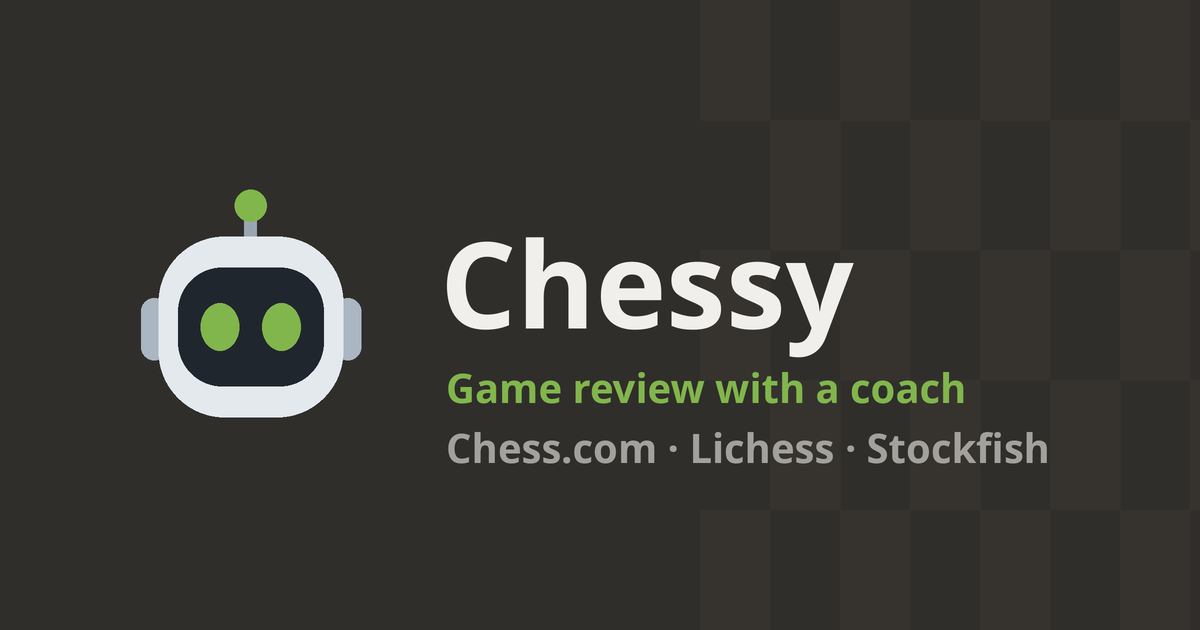
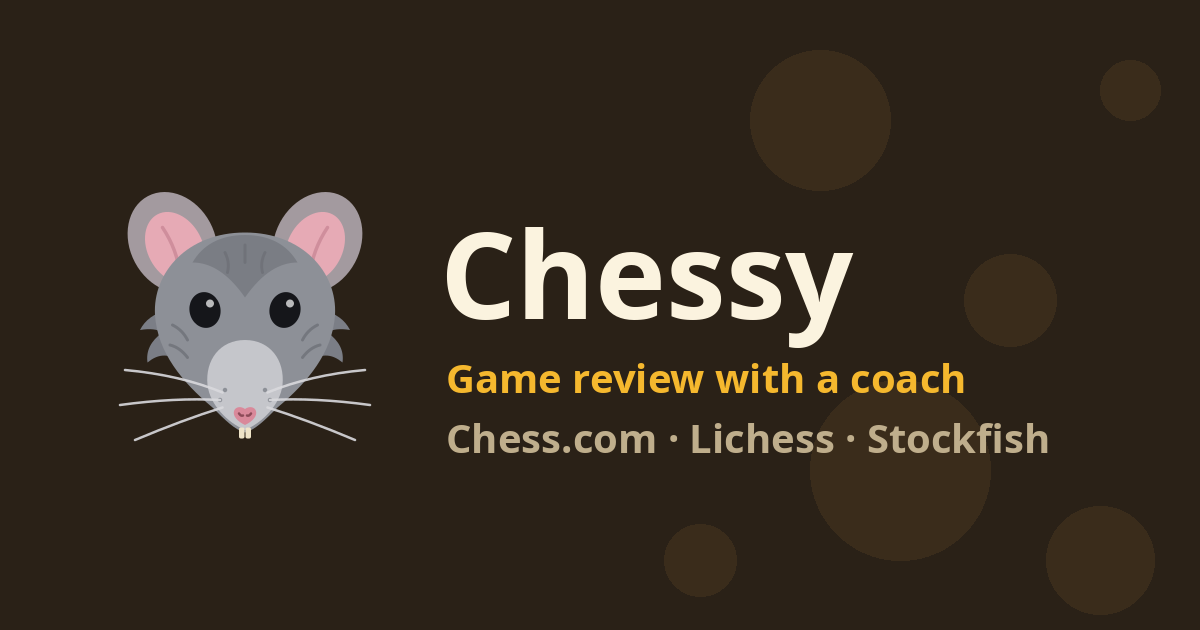
Cheese theme and a gray mouse coach
Warm brown/cheddar palette with a Cheese board theme as the default, and a
gray, more realistic animated mouse head replacing the robot (whiskers and
nose move while it talks). New favicon, app icons and link preview.
Move badges are no longer clipped on edge squares.

Changed region(s): [[0.37, 0.3619, 0.8942, 0.754], [0.0925, 0.3016, 0.3083, 0.6937]]

diff --git a/style.css b/style.css
@@ -1,6 +1,6 @@
 :root{
-  --bg:#302e2b; --panel:#262522; --card:#2f2d2a; --card2:#3a3835; --text:#f0efec; --muted:#a3a19c;
-  --green:#81b64c; --btn:#4e8a28; --greenD:#3c6e1d; --light:#eeeed2; --dark:#769656;
+  --bg:#2a2117; --panel:#211a12; --card:#2e2419; --card2:#3b2f21; --text:#fbf3df; --muted:#bfae8c;
+  --green:#f5b82e; --btn:#f5b82e; --greenD:#c48a12; --ink:#2a1d05; --light:#eeeed2; --dark:#769656;
   --board:min(640px, calc(100vw - 72px));
 }
 *{box-sizing:border-box}
@@ -8,16 +8,16 @@ body{margin:0;background:var(--bg);color:var(--text);font-family:system-ui,-appl
 button,select,input{font:inherit}
 .hidden{display:none!important}
 
-.top{display:flex;gap:16px;align-items:center;justify-content:space-between;padding:10px 20px;background:#21201d;flex-wrap:wrap}
+.top{display:flex;gap:16px;align-items:center;justify-content:space-between;padding:10px 20px;background:#1b150e;flex-wrap:wrap}
 .brand{font-size:22px;font-weight:800;display:flex;align-items:center;gap:10px}
 .logo{display:block;border-radius:7px}
 .search{display:flex;gap:8px;flex-wrap:wrap}
-.search input,.search select{background:var(--card);color:var(--text);border:1px solid #4a4743;border-radius:6px;padding:9px 12px}
+.search input,.search select{background:var(--card);color:var(--text);border:1px solid #5a4a35;border-radius:6px;padding:9px 12px}
 .search input{width:200px}
 button{background:var(--card2);color:var(--text);border:0;border-radius:6px;padding:9px 14px;cursor:pointer}
 button:hover:not(:disabled){filter:brightness(1.18)}
 button:disabled{opacity:.45;cursor:default}
-button.primary{background:var(--green);color:#10200a;font-weight:700}
+button.primary{background:var(--green);color:var(--ink);font-weight:700}
 
 /* ===== layout principal ===== */
 #app{display:flex;gap:20px;padding:20px;justify-content:center;align-items:flex-start}
@@ -30,20 +30,23 @@ button.primary{background:var(--green);color:#10200a;font-weight:700}
 .player .pav{width:40px;height:40px;border-radius:4px;background:#5a5855 center/cover no-repeat;flex:0 0 auto}
 .player .pname{font-weight:700;font-size:15px}
 .player .prate{color:var(--muted);font-weight:400;margin-left:5px;font-size:13px}
-.player .clock{margin-left:auto;min-width:104px;text-align:right;background:#21201d;border-radius:4px;padding:6px 12px;font:700 20px/1 ui-monospace,Menlo,Consolas,monospace;color:#8d8b87}
+.player .clock{margin-left:auto;min-width:104px;text-align:right;background:#1b150e;border-radius:4px;padding:6px 12px;font:700 20px/1 ui-monospace,Menlo,Consolas,monospace;color:#8d8b87}
 .player .clock.active{background:#fff;color:#262522}
 .player .clock.empty{visibility:hidden}
 
 /* ===== tabuleiro ===== */
 .boardWrap{display:flex;gap:8px}
-.evalBar{position:relative;width:26px;background:#403d39;border-radius:3px;overflow:hidden;flex:0 0 auto}
+.evalBar{position:relative;width:26px;background:#3b2f21;border-radius:3px;overflow:hidden;flex:0 0 auto}
 .evalFill{position:absolute;bottom:0;left:0;right:0;background:#f5f5f5;height:50%;transition:height .4s}
 .evalBar.flipped .evalFill{bottom:auto;top:0}
 .evalNum{position:absolute;left:0;right:0;font-size:10px;text-align:center;font-weight:700;color:#8d8b87;z-index:1}
-.board{position:relative;width:var(--board);height:var(--board);display:grid;grid-template-columns:repeat(8,1fr);grid-template-rows:repeat(8,1fr);border-radius:3px;overflow:hidden;user-select:none}
+.board{position:relative;width:var(--board);height:var(--board);display:grid;grid-template-columns:repeat(8,1fr);grid-template-rows:repeat(8,1fr);user-select:none}
+/* sem overflow:hidden, para o ícone do lance poder passar da borda; os cantos ficam arredondados nas próprias casas */
+.sq:nth-child(1){border-top-left-radius:3px}.sq:nth-child(8){border-top-right-radius:3px}
+.sq:nth-child(57){border-bottom-left-radius:3px}.sq:nth-child(64){border-bottom-right-radius:3px}
 .sq{position:relative}
 .sq.l{background:var(--light)} .sq.d{background:var(--dark)}
-.sq.hl::before{content:"";position:absolute;inset:0;background:rgba(255,235,60,.5)}
+.sq.hl::before{content:"";position:absolute;inset:0;background:rgba(255,110,20,.38)}
 .sq.hlBest::before{content:"";position:absolute;inset:0;background:rgba(129,182,76,.6)}
 .sq img{position:absolute;inset:0;width:100%;height:100%;z-index:2;pointer-events:none}
 .sq .coord{position:absolute;font-size:clamp(9px,1.5vw,13px);font-weight:700;z-index:1}
@@ -54,7 +57,7 @@ button.primary{background:var(--green);color:#10200a;font-weight:700}
 .arrows{position:absolute;inset:0;width:100%;height:100%;z-index:3;pointer-events:none}
 
 /* ===== painel ===== */
-.panelHead{flex:0 0 52px;display:flex;align-items:center;gap:4px;padding:0 10px;border-bottom:1px solid #1d1c1a}
+.panelHead{flex:0 0 52px;display:flex;align-items:center;gap:4px;padding:0 10px;border-bottom:1px solid #17110b}
 .panelHead .title{flex:1;display:flex;align-items:center;justify-content:center;gap:8px;font-weight:700;font-size:16px}
 .titleIcon svg{width:22px;height:22px;display:block}
 .iconBtn{background:none;font-size:18px;padding:6px 10px;color:#c3c1bc;min-width:36px}
@@ -62,39 +65,44 @@ button.primary{background:var(--green);color:#10200a;font-weight:700}
 .panel.review #btnBack{visibility:visible}
 
 .coach{flex:0 0 auto;display:flex;gap:10px;align-items:flex-end;padding:14px 14px 10px}
-.avatar{--mood:#81b64c;flex:0 0 76px;width:76px;height:79px}
+.avatar{flex:0 0 76px;width:76px;height:79px}
 .avatar svg{width:100%;height:100%;display:block;overflow:visible}
 .avatar .rbBody{animation:float 3.2s ease-in-out infinite}
 .avatar .rbShadow{transform-box:fill-box;transform-origin:center;animation:shadow 3.2s ease-in-out infinite}
-.avatar .rbEye,.avatar .rbBulb{fill:var(--mood);transition:fill .45s}
 .avatar .rbLook{animation:look 7s ease-in-out infinite}
 .avatar .eyes{transform-box:fill-box;transform-origin:center;animation:blink 4.5s infinite}
-/* sem boca: enquanto fala, os olhos "pulsam" de leve */
-.avatar .rbEye{transform-box:fill-box;transform-origin:center}
-.avatar.talking .rbEye{animation:talk .22s infinite alternate}
+.avatar .msWhiskL,.avatar .msWhiskR,.avatar .msNose{transform-box:fill-box}
+.avatar .msWhiskL{transform-origin:right center}
+.avatar .msWhiskR{transform-origin:left center}
+.avatar .msNose{transform-origin:center}
+.avatar.talking .msWhiskL{animation:whiskL .24s infinite alternate}
+.avatar.talking .msWhiskR{animation:whiskR .24s infinite alternate}
+.avatar.talking .msNose{animation:sniff .24s infinite alternate}
 @keyframes float{50%{transform:translateY(-3px)}}
 @keyframes shadow{50%{transform:scaleX(.85);opacity:.18}}
 @keyframes look{0%,38%,100%{transform:translateX(0)}45%,58%{transform:translateX(3px)}65%,78%{transform:translateX(-3px)}}
 @keyframes blink{0%,94%,100%{transform:scaleY(1)}97%{transform:scaleY(.1)}}
-@keyframes talk{from{transform:scale(1,1)}to{transform:scale(1.06,.8)}}
+@keyframes whiskL{to{transform:rotate(7deg)}}
+@keyframes whiskR{to{transform:rotate(-7deg)}}
+@keyframes sniff{to{transform:translateY(-1.5px) scale(1.12)}}
 @media (prefers-reduced-motion:reduce){.avatar *{animation:none!important}}
 /* altura FIXA: o texto nunca empurra o resto da interface */
-.bubble{position:relative;flex:1;min-width:0;height:96px;background:#fff;color:#262522;border-radius:8px;padding:12px 12px;display:flex;flex-direction:column;gap:6px;overflow:hidden}
-.bubble::before{content:"";position:absolute;left:-7px;bottom:22px;border:7px solid transparent;border-right-color:#fff;border-left:0}
+.bubble{position:relative;flex:1;min-width:0;height:96px;background:#fffaf0;color:#2a2117;border-radius:8px;padding:12px 12px;display:flex;flex-direction:column;gap:6px;overflow:hidden}
+.bubble::before{content:"";position:absolute;left:-7px;bottom:22px;border:7px solid transparent;border-right-color:#fffaf0;border-left:0}
 .bubbleRow{display:flex;align-items:flex-start;gap:8px}
 .moveBadge{display:flex;align-items:center;flex:0 0 auto}
 .moveBadge:empty{display:none}
 .moveBadge svg{width:24px;height:24px;flex:0 0 auto}
 .evalChip{flex:0 0 auto;background:#e9e8e6;border-radius:4px;padding:3px 8px;font-weight:700;font-size:13px}
 .evalChip:empty{display:none}
-.voiceSel{background:var(--card);color:var(--text);border:1px solid #4a4743;border-radius:6px;padding:4px 6px;font-size:12px;max-width:120px}
+.voiceSel{background:var(--card);color:var(--text);border:1px solid #5a4a35;border-radius:6px;padding:4px 6px;font-size:12px;max-width:120px}
 .bubbleText{flex:1;min-width:0;font-size:15px;font-weight:800;line-height:1.35;padding-top:2px}
 .bestLine{font-size:13.5px;color:#5b5955;font-weight:600;padding-left:32px}
 .bestLine:empty{display:none}
 .bubbleText .ghost{visibility:hidden}
 
 .body{flex:1;min-height:0;display:flex;flex-direction:column;gap:10px;padding:4px 14px 14px}
-.graphWrap{flex:0 0 auto;background:#21201d;border-radius:4px;overflow:hidden}
+.graphWrap{flex:0 0 auto;background:#1b150e;border-radius:4px;overflow:hidden}
 .graph{position:relative;height:60px;cursor:pointer}
 .graph svg{position:absolute;inset:0;width:100%;height:100%}
 .graph .dot{position:absolute;width:8px;height:8px;margin:-4px 0 0 -4px;border-radius:50%;pointer-events:none}
@@ -110,34 +118,34 @@ button.primary{background:var(--green);color:#10200a;font-weight:700}
 .accBox{background:#fff;color:#262522;border-radius:4px;padding:5px 0;font-weight:800;width:64px;margin:auto;text-align:center;font-size:16px}
 .cnt{font-weight:800;font-size:15px}
 .ic svg{width:22px;height:22px;display:block;margin:0 auto}
-.rule{border:0;border-top:1px solid #3a3835;margin:2px 0;grid-column:1/-1}
+.rule{border:0;border-top:1px solid #4a3c2a;margin:2px 0;grid-column:1/-1}
 .chev{grid-column:1/-1;background:none;color:var(--muted);padding:2px;font-size:15px}
 .ratingBox{background:#fff;color:#262522;border-radius:4px;padding:5px 0;font-weight:800;width:64px;margin:auto;text-align:center;font-size:16px}
 
-.bigBtn{width:100%;background:var(--btn);color:#fff;font-size:20px;font-weight:800;padding:14px;border-radius:8px;box-shadow:0 4px 0 var(--greenD)}
-.bigBtn:disabled{background:#4a4743;box-shadow:0 4px 0 #3a3835;color:#aaa}
+.bigBtn{width:100%;background:var(--btn);color:var(--ink);font-size:20px;font-weight:800;padding:14px;border-radius:8px;box-shadow:0 4px 0 var(--greenD)}
+.bigBtn:disabled{background:#5a4a35;box-shadow:0 4px 0 #4a3c2a;color:#aaa}
 .foot{flex:0 0 auto}
 
 /* ===== revisão ===== */
-.ghostBtn{background:var(--btn);color:#fff;font-weight:800;font-size:15px;padding:11px;box-shadow:0 3px 0 var(--greenD)}
-.ghostBtn:disabled{background:#3a3835;box-shadow:0 3px 0 #2c2a28;color:#8d8b87}
+.ghostBtn{background:var(--btn);color:var(--ink);font-weight:800;font-size:15px;padding:11px;box-shadow:0 3px 0 var(--greenD)}
+.ghostBtn:disabled{background:#4a3c2a;box-shadow:0 3px 0 #241b11;color:#8d8b87}
 .btnRow{display:flex;gap:8px}
 .btnRow .nextBig{flex:1}
-.btnRow .alt{flex:0 0 130px;background:var(--card2);box-shadow:0 3px 0 #1d1c1a;color:var(--text)}
-.btnRow .alt:disabled{background:#2f2d2a;box-shadow:0 3px 0 #1d1c1a}
+.btnRow .alt{flex:0 0 130px;background:var(--card2);box-shadow:0 3px 0 #17110b;color:var(--text)}
+.btnRow .alt:disabled{background:#2f2d2a;box-shadow:0 3px 0 #17110b}
 .moves{flex:1;min-height:0;overflow:auto;background:var(--card);border-radius:6px;padding:4px 0;font-size:14px}
 .mrow{display:grid;grid-template-columns:38px 1fr 1fr;align-items:center}
 .mrow:nth-child(odd){background:rgba(255,255,255,.025)}
 .mrow .num{color:var(--muted);text-align:center;font-size:12px}
 .mv{display:flex;align-items:center;gap:5px;padding:6px 8px;margin:1px 4px;border-radius:4px;cursor:pointer;font-weight:600;min-height:30px}
 .mv:hover{background:var(--card2)}
-.mv.active{background:#4a4743;color:#fff}
+.mv.active{background:#5a4628;color:#fff}
 .mv svg{width:16px;height:16px;flex:0 0 auto}
 .mv .fig{font-size:17px;line-height:1;color:#d9d7d3}
 .controls{display:grid;grid-template-columns:repeat(5,1fr);gap:6px}
 .controls button{font-size:20px;padding:9px 0;background:var(--card2)}
 
-.status{position:fixed;bottom:16px;left:50%;transform:translateX(-50%);background:#21201d;border:1px solid #4a4743;padding:10px 18px;border-radius:8px;display:none;max-width:90vw;z-index:10}
+.status{position:fixed;bottom:16px;left:50%;transform:translateX(-50%);background:#1b150e;border:1px solid #5a4a35;padding:10px 18px;border-radius:8px;display:none;max-width:90vw;z-index:10}
 .status.show{display:block}
 .status.err{border-color:#ca3431;color:#ffb4b2}
 
@@ -171,19 +179,19 @@ button.primary{background:var(--green);color:#10200a;font-weight:700}
 .promoPiece img{width:100%;height:100%;display:block}
 
 /* ===== personalização ===== */
-.settingsPop{position:absolute;top:52px;left:8px;right:8px;z-index:30;background:#1f1e1c;border:1px solid #3a3835;border-radius:8px;padding:12px;box-shadow:0 10px 30px rgba(0,0,0,.55);max-height:calc(100% - 64px);overflow:auto}
+.settingsPop{position:absolute;top:52px;left:8px;right:8px;z-index:30;background:#1f1e1c;border:1px solid #4a3c2a;border-radius:8px;padding:12px;box-shadow:0 10px 30px rgba(0,0,0,.55);max-height:calc(100% - 64px);overflow:auto}
 .settingsPop h4{margin:2px 0 8px;font-size:13px;color:var(--muted);font-weight:700}
 .sGrid{display:grid;grid-template-columns:repeat(3,1fr);gap:6px;margin-bottom:12px}
 .sGrid.last{margin-bottom:0}
 .sOpt{display:flex;flex-direction:column;align-items:center;gap:6px;padding:8px 4px;background:var(--card);border:2px solid transparent;font-size:12px;line-height:1.2;text-align:center}
-.sOpt.on{border-color:var(--green);background:#2c3a22}
+.sOpt.on{border-color:var(--green);background:#4a3812}
 .sPrev{display:flex;border-radius:4px;overflow:hidden}
 .sPrev>span{width:34px;height:34px;display:block}
 .sPrev img{width:100%;height:100%;display:block}
 
 /* ===== modal de entrada ===== */
 .modal{position:fixed;inset:0;z-index:50;display:flex;align-items:center;justify-content:center;padding:16px;background:rgba(18,17,16,.86)}
-.loginCard{width:min(420px,100%);background:var(--panel);border:1px solid #3a3835;border-radius:12px;padding:28px 24px 22px;display:flex;flex-direction:column;gap:12px;box-shadow:0 20px 60px rgba(0,0,0,.6);text-align:center}
+.loginCard{width:min(420px,100%);background:var(--panel);border:1px solid #4a3c2a;border-radius:12px;padding:28px 24px 22px;display:flex;flex-direction:column;gap:12px;box-shadow:0 20px 60px rgba(0,0,0,.6);text-align:center}
 .loginLogo{display:block;margin:0 auto;border-radius:14px}
 .loginCard h1{margin:0;font-size:22px}
 .seg{display:grid;grid-template-columns:1fr 1fr;background:var(--card);border-radius:8px;padding:4px;gap:4px}
@@ -191,7 +199,7 @@ button.primary{background:var(--green);color:#10200a;font-weight:700}
 .seg span{display:block;padding:8px;border-radius:6px;cursor:pointer;font-weight:700;color:var(--muted)}
 .seg input:checked+span{background:var(--card2);color:var(--text)}
 .seg input:focus-visible+span{outline:2px solid var(--green)}
-.loginCard input[type=text]{background:var(--card);color:var(--text);border:1px solid #4a4743;border-radius:8px;padding:12px 14px;font-size:16px;text-align:center}
+.loginCard input[type=text]{background:var(--card);color:var(--text);border:1px solid #5a4a35;border-radius:8px;padding:12px 14px;font-size:16px;text-align:center}
 .loginCard input[type=text]:focus{outline:2px solid var(--green);border-color:transparent}
 .loginErr{color:#ff9b98;font-size:13px;min-height:18px}
 .linkClose{background:none;color:var(--muted);padding:4px}
@@ -203,7 +211,7 @@ button.primary{background:var(--green);color:#10200a;font-weight:700}
 .sTest{width:100%;margin-bottom:14px;background:var(--card2);font-weight:700;font-size:13px;padding:8px}
 
 /* ===== ícones (Material Symbols, Google Fonts) ===== */
-:root{--icon:#e3d6bd}
+:root{--icon:#f3d58a}
 .ms{font-family:"Material Symbols Rounded";font-weight:500;font-style:normal;font-size:22px;line-height:1;letter-spacing:normal;text-transform:none;white-space:nowrap;direction:ltr;display:inline-block;vertical-align:middle;-webkit-font-smoothing:antialiased;font-variation-settings:"FILL" 1,"wght" 500,"opsz" 24;color:var(--icon);pointer-events:none}
 .iconBtn{display:inline-flex;align-items:center;justify-content:center;padding:6px 8px}
 .iconBtn .ms{font-size:22px}
@@ -211,7 +219,7 @@ button.primary{background:var(--green);color:#10200a;font-weight:700}
 .controls button{display:flex;align-items:center;justify-content:center}
 .controls .ms{font-size:28px}
 .nextBig{display:flex;align-items:center;justify-content:center;gap:6px}
-.nextBig .ms{color:#fff;font-size:20px}
+.nextBig .ms{color:var(--ink);font-size:20px}
 .sTest{display:flex;align-items:center;justify-content:center;gap:4px}
 .sTest .ms{font-size:18px}
 
@@ -226,7 +234,7 @@ img.pc-r{transform:translateY(-4.9%)}
 .eline:hover{background:var(--card2)}
 .echip{flex:0 0 54px;text-align:center;font-weight:800;font-size:12.5px;border-radius:3px;padding:3px 0}
 .echip.w{background:#fff;color:#262522}
-.echip.b{background:#403d39;color:#fff}
+.echip.b{background:#3b2f21;color:#fff}
 .emoves{overflow:hidden;text-overflow:ellipsis;color:#d9d7d3;font-weight:600}
 .enum{color:var(--muted);margin-right:3px;font-weight:400}
 .eline .fig{font-size:14px}

diff --git a/index.html b/index.html
@@ -5,16 +5,16 @@
 <meta name="viewport" content="width=device-width, initial-scale=1">
 <title>Chessy – Game Review</title>
 <meta name="description" content="Review your latest Chess.com or Lichess game with a Stockfish-powered coach, right in your browser.">
-<meta name="theme-color" content="#302e2b">
-<link rel="icon" href="favicon.svg" type="image/svg+xml">
-<link rel="icon" href="favicon-32.png" sizes="32x32" type="image/png">
-<link rel="apple-touch-icon" href="apple-touch-icon.png">
-<link rel="manifest" href="site.webmanifest">
+<meta name="theme-color" content="#2a2117">
+<link rel="icon" href="favicon.svg?v=2" type="image/svg+xml">
+<link rel="icon" href="favicon-32.png?v=2" sizes="32x32" type="image/png">
+<link rel="apple-touch-icon" href="apple-touch-icon.png?v=2">
+<link rel="manifest" href="site.webmanifest?v=2">
 <meta property="og:type" content="website">
 <meta property="og:title" content="Chessy – Game Review">
 <meta property="og:description" content="Review your latest Chess.com or Lichess game with a Stockfish-powered coach, right in your browser.">
 <meta property="og:url" content="https://eucomoareia.github.io/chessy/">
-<meta property="og:image" content="https://eucomoareia.github.io/chessy/og-image.png">
+<meta property="og:image" content="https://eucomoareia.github.io/chessy/og-image.png?v=2">
 <meta property="og:image:width" content="1200">
 <meta property="og:image:height" content="630">
 <meta name="twitter:card" content="summary_large_image">
@@ -33,13 +33,13 @@
 </head>
 <body>
 <header class="top">
-  <div class="brand"><img class="logo" src="favicon.svg" alt="" width="28" height="28"> Chessy</div>
+  <div class="brand"><img class="logo" src="favicon.svg?v=2" alt="" width="28" height="28"> Chessy</div>
   <button id="btnNewGame" class="primary hidden">New review</button>
 </header>
 
 <div class="modal" id="loginModal" role="dialog" aria-modal="true" aria-labelledby="loginTitle">
   <form id="searchForm" class="loginCard">
-    <img class="loginLogo" src="favicon.svg" alt="" width="64" height="64">
+    <img class="loginLogo" src="favicon.svg?v=2" alt="" width="64" height="64">
     <h1 id="loginTitle">Review your latest game</h1>
     <div class="seg" role="radiogroup" aria-label="Platform">
       <label><input type="radio" name="platform" value="chesscom" checked><span>Chess.com</span></label>
@@ -80,21 +80,50 @@
       <div class="coach">
         <div class="avatar" id="avatar">
           <svg viewBox="0 0 120 124" aria-hidden="true">
-            <ellipse class="rbShadow" cx="60" cy="118" rx="30" ry="4" fill="#000" opacity=".28"/>
+            <ellipse class="rbShadow" cx="60" cy="120" rx="28" ry="3.5" fill="#000" opacity=".3"/>
             <g class="rbBody">
-              <path d="M60 23V13" stroke="#9aa6b2" stroke-width="4" stroke-linecap="round"/>
-              <circle class="rbBulb" cx="60" cy="10" r="5.5"/>
-              <rect x="7" y="50" width="13" height="28" rx="6.5" fill="#aab6c2"/>
-              <rect x="100" y="50" width="13" height="28" rx="6.5" fill="#aab6c2"/>
-              <rect x="16" y="22" width="88" height="82" rx="30" fill="#e4e9ee"/>
-              <rect x="24" y="37" width="72" height="52" rx="21" fill="#20262e"/>
+              <!-- orelhas: ovais, finas, rosadas por dentro -->
+              <ellipse cx="31" cy="37" rx="17" ry="21" transform="rotate(-28 31 37)" fill="#a39a9f"/>
+              <ellipse cx="89" cy="37" rx="17" ry="21" transform="rotate(28 89 37)" fill="#a39a9f"/>
+              <ellipse cx="32" cy="39" rx="11" ry="15" transform="rotate(-28 32 39)" fill="#e6aab5"/>
+              <ellipse cx="88" cy="39" rx="11" ry="15" transform="rotate(28 88 39)" fill="#e6aab5"/>
+              <path d="M27 31Q33 40 34 50M93 31Q87 40 86 50" fill="none" stroke="#cf8e9c" stroke-width="1.4" stroke-linecap="round"/>
+              <!-- tufos de pelo nas laterais -->
+              <path d="M29 64Q21 66 18 72Q24 71 27 73Q20 78 21 85Q27 80 33 84Z" fill="#7b7e86"/>
+              <path d="M91 64Q99 66 102 72Q96 71 93 73Q100 78 99 85Q93 80 87 84Z" fill="#7b7e86"/>
+              <!-- cabeça afinando num focinho comprido -->
+              <path d="M60 33C83 33 97 49 96 66C95 81 85 93 73 103C68 108 64 112 60 113C56 112 52 108 47 103C35 93 25 81 24 66C23 49 37 33 60 33Z" fill="#8d9097"/>
+              <path d="M60 34C70 34 77 38 81 45C74 45 67 49 60 59C53 49 46 45 39 45C43 38 50 34 60 34Z" fill="#7a7d84"/>
+              <!-- focinho mais claro -->
+              <path d="M60 76C70 76 76 84 75 94C74 102 67 109 60 112C53 109 46 102 45 94C44 84 50 76 60 76Z" fill="#c5c6cb"/>
+              <!-- fios de pelo -->
+              <g fill="none" stroke="#6c6f76" stroke-width="1.2" stroke-linecap="round" opacity=".75">
+                <path d="M52 41Q54 45 53 49M60 38V45M68 41Q66 45 67 49"/>
+                <path d="M31 70Q35 72 37 76M30 78Q34 79 37 83M89 70Q85 72 83 76M90 78Q86 79 83 83"/>
+              </g>
               <g class="rbLook">
                 <g class="eyes">
-                  <ellipse class="rbEye" cx="45" cy="63" rx="8" ry="10"/>
-                  <ellipse class="rbEye" cx="75" cy="63" rx="8" ry="10"/>
+                  <ellipse cx="44" cy="64" rx="6.2" ry="7.2" transform="rotate(-12 44 64)" fill="#15161a"/>
+                  <ellipse cx="76" cy="64" rx="6.2" ry="7.2" transform="rotate(12 76 64)" fill="#15161a"/>
+                  <circle cx="46" cy="61.4" r="1.6" fill="#fff" opacity=".7"/>
+                  <circle cx="78" cy="61.4" r="1.6" fill="#fff" opacity=".7"/>
                 </g>
               </g>
-              <circle cx="60" cy="97" r="2.6" fill="#9aa6b2"/>
+              <!-- pontinhos dos bigodes -->
+              <g fill="#8d9097"><circle cx="52" cy="96" r=".9"/><circle cx="50" cy="100" r=".9"/><circle cx="68" cy="96" r=".9"/><circle cx="70" cy="100" r=".9"/></g>
+              <g class="msWhiskL" fill="none" stroke="#d9d9dd" stroke-width="1" stroke-linecap="round" opacity=".9">
+                <path d="M51 97Q34 90 12 88"/><path d="M50 100Q32 99 10 102"/><path d="M51 103Q35 108 16 116"/>
+              </g>
+              <g class="msWhiskR" fill="none" stroke="#d9d9dd" stroke-width="1" stroke-linecap="round" opacity=".9">
+                <path d="M69 97Q86 90 108 88"/><path d="M70 100Q88 99 110 102"/><path d="M69 103Q85 108 104 116"/>
+              </g>
+              <!-- dentinhos, nariz e narinas -->
+              <rect x="57.6" y="111" width="2.2" height="4.4" rx=".7" fill="#efe4c8"/>
+              <rect x="60.2" y="111" width="2.2" height="4.4" rx=".7" fill="#efe4c8"/>
+              <g class="msNose">
+                <path d="M60 110C57 108.6 55 106.4 55.6 104.4C56.2 102.6 58.4 102.4 60 103.6C61.6 102.4 63.8 102.6 64.4 104.4C65 106.4 63 108.6 60 110Z" fill="#d9899a"/>
+                <path d="M57.6 105.4Q58.4 106.6 59.2 106.2M62.4 105.4Q61.6 106.6 60.8 106.2" fill="none" stroke="#8c4b58" stroke-width="1" stroke-linecap="round"/>
+              </g>
             </g>
           </svg>
         </div>

diff --git a/app.js b/app.js
@@ -11,6 +11,7 @@ const PIECE_SETS = {
   flat:             { label: "Silhouette" },
 };
 const BOARD_THEMES = {
+  cheese:   { label: "Cheese",       light: "#fff3cf", dark: "#e7b443" },
   chesscom: { label: "Green",        light: "#eeeed2", dark: "#769656" },
   lime:     { label: "Lime",         light: "#fff2d4", dark: "#8cc936" },
   brown:    { label: "Brown",        light: "#f0d9b5", dark: "#b58863" },
@@ -21,10 +22,10 @@ const BOARD_THEMES = {
 // Motor com os mesmos padrões do Chess.com: revisão "Fast" (~1 s por lance), análise até 5 s com 3 linhas
 const REVIEW_TIMES = { 1000: "Fast (~1 sec)", 3000: "Standard (~3 sec)" };
 const ANALYSIS_TIMES = { 1000: "1 sec", 3000: "3 sec", 5000: "5 sec", 10000: "10 sec" };
-const Settings = { pieces: "modern-outline", board: "chesscom", tts: "kokoro", coachVoice: "bm_fable", reviewTime: 1000, analysisTime: 5000, lines: 3, sfx: "on" };
+const Settings = { pieces: "modern-outline", board: "cheese", tts: "kokoro", coachVoice: "bm_fable", reviewTime: 1000, analysisTime: 5000, lines: 3, sfx: "on" };
 try { Object.assign(Settings, JSON.parse(localStorage.getItem("chessy.settings") || "{}")); } catch (_) { /* sem storage */ }
 if (!PIECE_SETS[Settings.pieces]) Settings.pieces = "modern-outline";
-if (!BOARD_THEMES[Settings.board]) Settings.board = "chesscom";
+if (!BOARD_THEMES[Settings.board]) Settings.board = "cheese";
 // Vozes do Kokoro, das mais suaves para as mais brilhantes
 const KOKORO_VOICES = {
   bm_fable: "Fable · UK ♂", bm_george: "George · UK ♂", am_michael: "Michael · US ♂", am_fenrir: "Fenrir · US ♂",
@@ -493,10 +494,10 @@ function renderGraph() {
   const xs = (i) => (n <= 1 ? 0 : (i / (n - 1)) * W);
   const pts = [];
   for (let i = 0; i < n; i++) { const e = S.evals[i]; if (!e) break; pts.push([xs(i), H * (1 - winPct(cpOf(e)) / 100)]); }
-  let svg = `<svg viewBox="0 0 ${W} ${H}" preserveAspectRatio="none"><rect width="${W}" height="${H}" fill="#3b3935"/>`;
+  let svg = `<svg viewBox="0 0 ${W} ${H}" preserveAspectRatio="none"><rect width="${W}" height="${H}" fill="#3b2f21"/>`;
   if (pts.length > 1) svg += `<polygon points="0,${H} ${pts.map((p) => p.join(",")).join(" ")} ${pts[pts.length - 1][0]},${H}" fill="#f5f5f5"/>`;
   svg += `<line x1="0" x2="${W}" y1="${H / 2}" y2="${H / 2}" stroke="#888" stroke-width=".8" stroke-dasharray="3 3" vector-effect="non-scaling-stroke"/>`;
-  if (S.phase === "review") svg += `<line x1="${xs(S.cur)}" x2="${xs(S.cur)}" y1="0" y2="${H}" stroke="#81b64c" stroke-width="2" vector-effect="non-scaling-stroke"/>`;
+  if (S.phase === "review") svg += `<line x1="${xs(S.cur)}" x2="${xs(S.cur)}" y1="0" y2="${H}" stroke="#f5b82e" stroke-width="2" vector-effect="non-scaling-stroke"/>`;
   svg += "</svg>";
   let dots = "";
   if (S.analysisDone) {
@@ -787,8 +788,6 @@ function coachMessage(at = S.cur) {
 function updateCoach(mode = "say") { // "say" = texto + voz, "silent" = só texto, "none" = só controles
   const m = coachMessage();
   const q = S.phase === "review" && S.cur > 0 ? quality(S.cur) : null;
-  const bc = m.badge && CLASSES[m.badge].color;
-  el.avatar.style.setProperty("--mood", bc || "#81b64c");
   el.badge.innerHTML = m.badge ? icon(m.badge) : "";
   el.bestLine.innerHTML = m.best ? `${T().bestLabel} <a class="mvlink" data-uci="${esc(m.best.uci)}" title="Play this move on the board">${esc(m.best.san)}</a>` : "";
   el.chip.textContent = m.chip || "";
